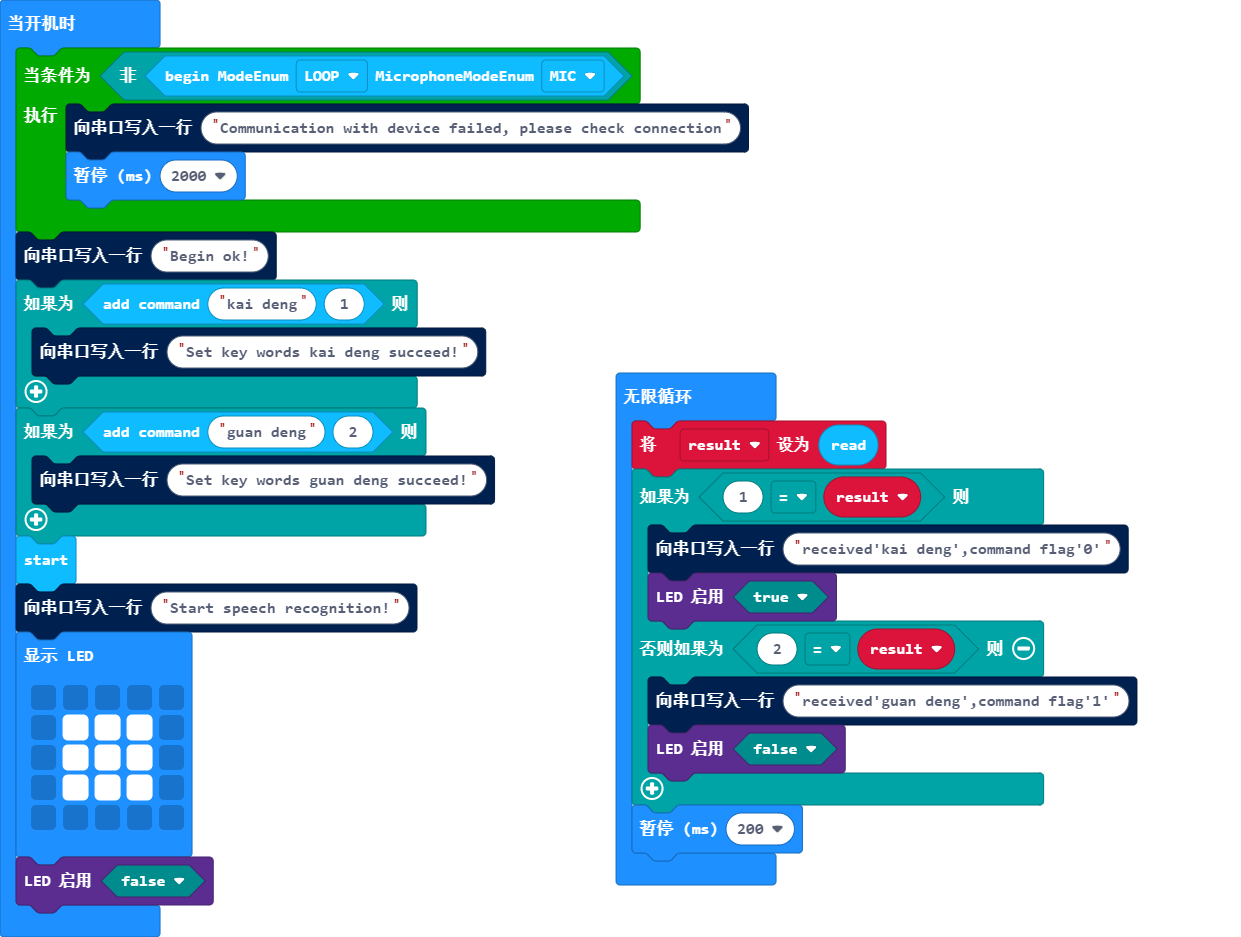
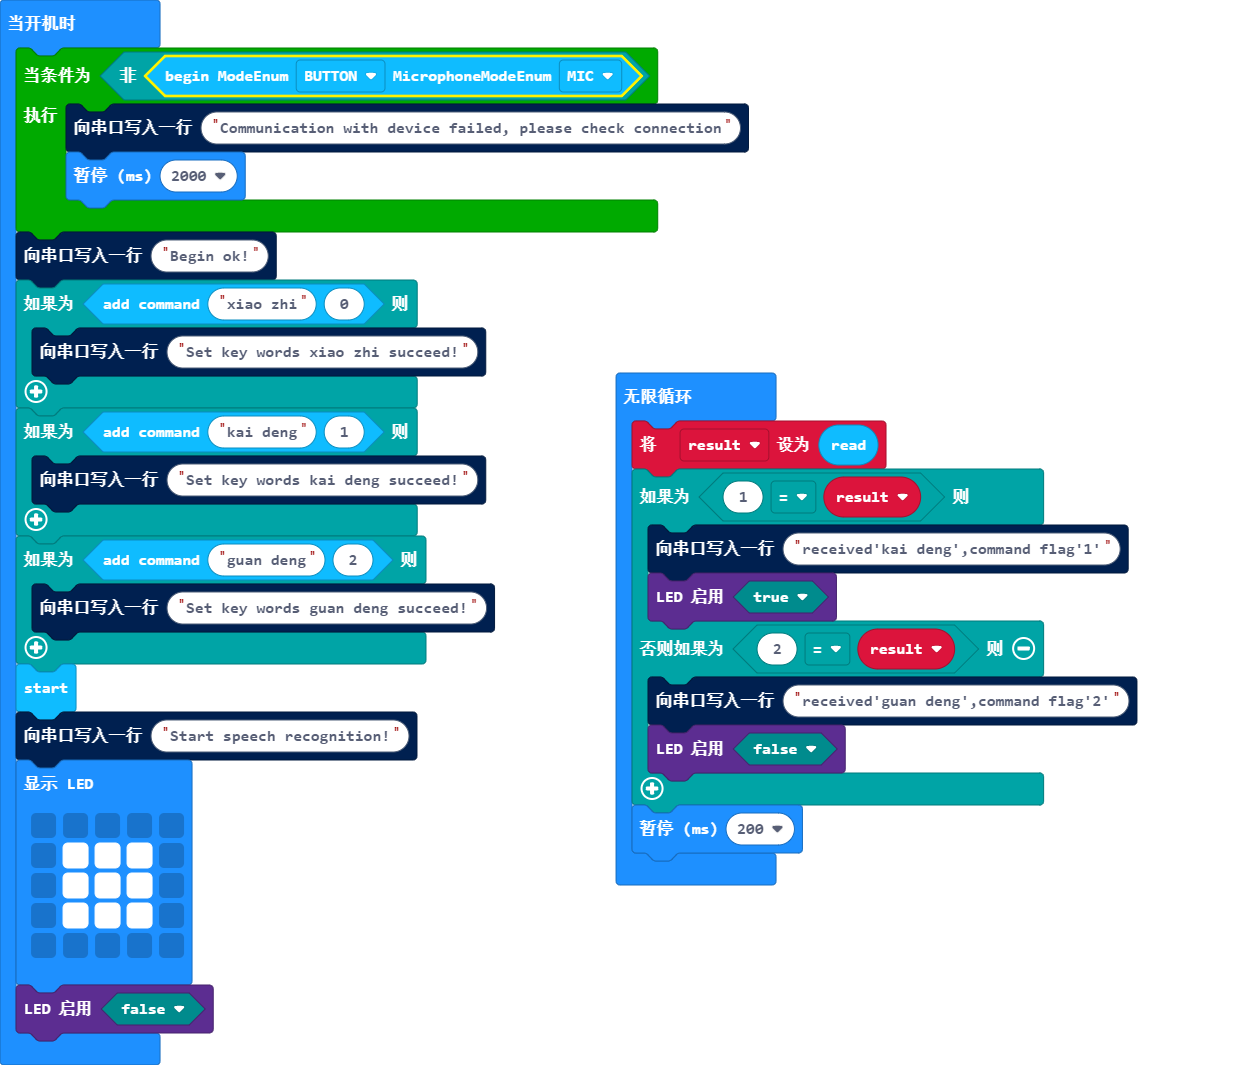
更新 pxt.json, main.blocks, main.ts

diff --git a/main.ts b/main.ts
@@ -1,9 +1,12 @@
 let result = 0
-while (!(ASR.begin(ASR.ModeEnum.LOOP, ASR.MicrophoneModeEnum.MIC))) {
+while (!(ASR.begin(ASR.ModeEnum.BUTTON, ASR.MicrophoneModeEnum.MIC))) {
     serial.writeLine("Communication with device failed, please check connection")
     basic.pause(2000)
 }
 serial.writeLine("Begin ok!")
+if (ASR.addCommand("xiao zhi", 0)) {
+    serial.writeLine("Set key words xiao zhi succeed!")
+}
 if (ASR.addCommand("kai deng", 1)) {
     serial.writeLine("Set key words kai deng succeed!")
 }
@@ -23,10 +26,10 @@ led.enable(false)
 basic.forever(function () {
     result = ASR.read()
     if (1 == result) {
-        serial.writeLine("received'kai deng',command flag'0'")
+        serial.writeLine("received'kai deng',command flag'1'")
         led.enable(true)
     } else if (2 == result) {
-        serial.writeLine("received'guan deng',command flag'1'")
+        serial.writeLine("received'guan deng',command flag'2'")
         led.enable(false)
     }
     basic.pause(200)
